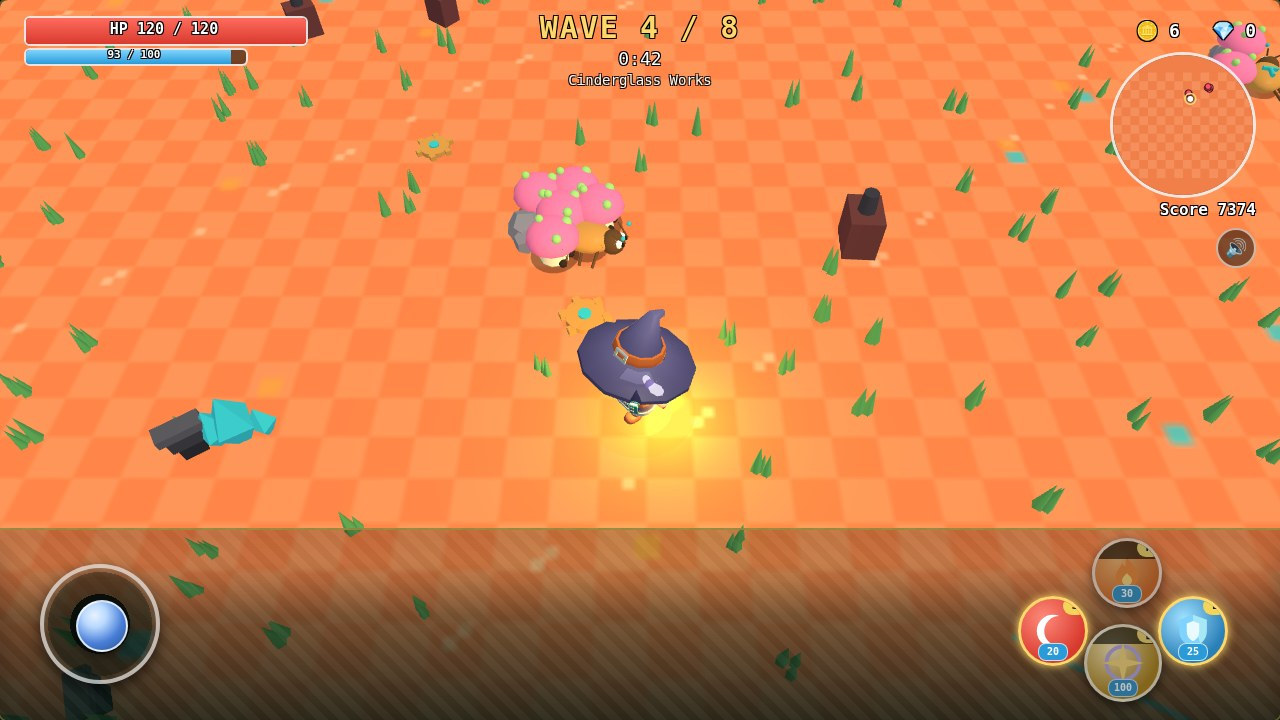
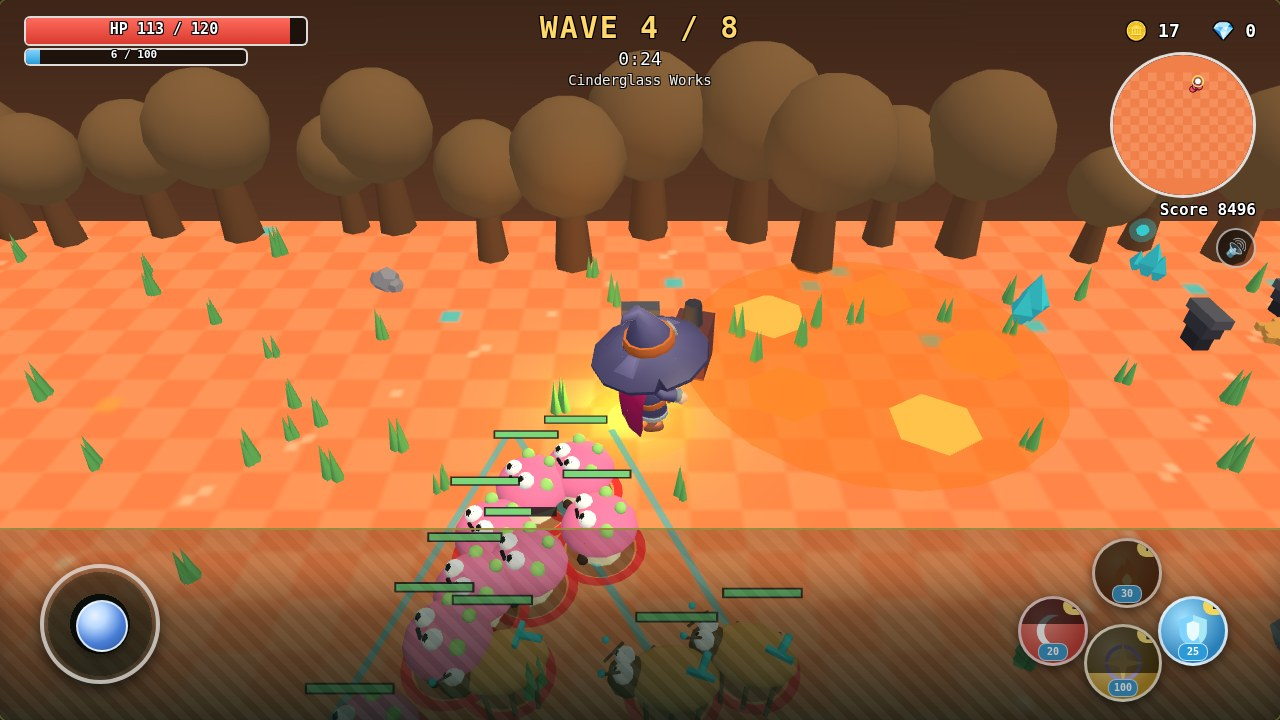
Mosslight v7: musuh kelihatan + Neri jelas

diff --git a/game/src/world.js b/game/src/world.js
@@ -47,7 +47,33 @@ export function createWorld(canvas) {
   let chestMeshes = [];
   let statueMeshes = [];
 
-  // ---- ground baking (one canvas texture for the whole open field) ----
+  // v7: gradient sky — at the 38 deg camera the top of the frame shows
+  // sky when Neri is near the north edge; a flat colour read as an empty
+  // brown band (Cinder), a vertical gradient reads as sky instead.
+  let skyTex = null;
+  function shade(hex, f) {
+    const n = parseInt(hex.slice(1), 16);
+    const r = Math.min(255, Math.round(((n >> 16) & 255) * f));
+    const g = Math.min(255, Math.round(((n >> 8) & 255) * f));
+    const b = Math.min(255, Math.round((n & 255) * f));
+    return `rgb(${r},${g},${b})`;
+  }
+  function setSky() {
+    const pal = AREAS[area];
+    const cv = document.createElement('canvas');
+    cv.width = 4; cv.height = 256;
+    const ctx = cv.getContext('2d');
+    const grad = ctx.createLinearGradient(0, 0, 0, 256);
+    grad.addColorStop(0, shade(pal.sky, 0.5));
+    grad.addColorStop(0.62, pal.sky);
+    grad.addColorStop(1, shade(pal.sky, 1.5));
+    ctx.fillStyle = grad;
+    ctx.fillRect(0, 0, 4, 256);
+    if (skyTex) skyTex.dispose();
+    skyTex = new THREE.CanvasTexture(cv);
+    skyTex.colorSpace = THREE.SRGBColorSpace;
+    scene.background = skyTex;
+  }
   function bakeFloor() {
     const pal = AREAS[area];
     const cv = document.createElement('canvas');
@@ -183,7 +209,10 @@ export function createWorld(canvas) {
       else if (t < FW + FH) { x = FW - 0.6 - jd; z = t - FW + jt; }
       else if (t < FW * 2 + FH) { x = FW - (t - FW - FH) + jt; z = FH - 0.6 - jd; }
       else { x = 0.6 + jd; z = FH - (t - FW * 2 - FH) + jt; }
-      const s = 0.8 + tileHash(i * 3, area) * 1.2;
+      // v7: the north row (the far horizon the 38 deg camera looks at) is
+      // 2.2x taller, so the top of the frame shows a forest silhouette
+      // under the gradient sky instead of a flat empty band.
+      const s = (0.8 + tileHash(i * 3, area) * 1.2) * (t < FW ? 2.2 : 1);
       m4.compose(pv.set(x, 0.45 * s, z), q, sv.set(s, s, s));
       trunks.setMatrixAt(i, m4);
       m4.compose(pv.set(x, 1.25 * s, z), q, sv.set(s, s, s));
@@ -213,6 +242,10 @@ export function createWorld(canvas) {
 
   // ---- entity mesh pools ----
   const enemyMeshes = new Map(); // id -> {group, parts, type}
+  const hpBars = new Map(); // enemy id -> {group, fill, fillW}; v7: small HP
+  // bar above every enemy, billboarded to the camera, so an enemy is
+  // readable at a glance even when its body blends with the decor.
+  let bossHpBar = null;
   const lootMeshes = new Map(); // id -> {group, parts, kind}
   const pickupMeshes = new Map(); // id -> {group, parts, kind}
   const projPool = [];
@@ -373,6 +406,37 @@ export function createWorld(canvas) {
     d.tex.needsUpdate = true;
   }
 
+  // v7: enemy HP bar — dark backing + fill that shrinks from the right.
+  // The group is billboarded in sync() (quaternion copied from the camera),
+  // so its local +x is screen-right and the fill stays left-anchored.
+  function makeHpBar(w) {
+    const g = new THREE.Group();
+    const bg = new THREE.Mesh(
+      new THREE.PlaneGeometry(w, 0.15),
+      new THREE.MeshBasicMaterial({ color: 0x1a1a1a, transparent: true, opacity: 0.85, depthTest: false }),
+    );
+    bg.renderOrder = 5;
+    const fillW = w - 0.06;
+    const fill = new THREE.Mesh(
+      new THREE.PlaneGeometry(fillW, 0.1),
+      new THREE.MeshBasicMaterial({ color: 0x7fe07f, transparent: true, opacity: 0.95, depthTest: false }),
+    );
+    fill.renderOrder = 6;
+    fill.position.z = 0.001;
+    g.add(bg, fill);
+    g.visible = false;
+    scene.add(g);
+    return { group: g, fill, fillW };
+  }
+
+  function updateHpBar(hb, frac) {
+    const f = Math.max(0, Math.min(1, frac));
+    hb.fill.scale.x = Math.max(0.001, f);
+    hb.fill.position.x = -(1 - f) * hb.fillW / 2;
+    hb.fill.material.color.setHex(f > 0.5 ? 0x7fe07f : f > 0.25 ? 0xffc94d : 0xff4f4f);
+    hb.group.visible = true;
+  }
+
   function getTelegraph(color, radius) {
     let t = telegraphPool.find((e) => !e.inUse);
     if (!t) {
@@ -394,7 +458,7 @@ export function createWorld(canvas) {
     bakeFloor();
     buildProps();
     buildChestsAndStatues();
-    scene.background = new THREE.Color(AREAS[0].sky);
+    setSky();
   }
 
   function setArea(a) {
@@ -402,7 +466,7 @@ export function createWorld(canvas) {
     area = a;
     bakeFloor();
     buildProps();
-    scene.background = new THREE.Color(AREAS[a].sky);
+    setSky();
   }
 
   function pxPerUnit() {
@@ -480,9 +544,19 @@ export function createWorld(canvas) {
       } else {
         em.group.traverse((o) => { if (o.isMesh && o.material.emissive) o.material.emissive.setHex(0x000000); });
       }
+      // v7 HP bar above the head, billboarded to the camera.
+      let hb = hpBars.get(e.id);
+      if (!hb) { hb = makeHpBar(1.15); hpBars.set(e.id, hb); }
+      hb.group.position.set(toX(e.x), 1.95, toZ(e.y));
+      hb.group.quaternion.copy(camera.quaternion);
+      updateHpBar(hb, e.hp / e.maxHp);
     }
     for (const [id, em] of enemyMeshes) {
-      if (!seenEnemies.has(id)) { scene.remove(em.group); enemyMeshes.delete(id); }
+      if (!seenEnemies.has(id)) {
+        scene.remove(em.group); enemyMeshes.delete(id);
+        const hb = hpBars.get(id);
+        if (hb) { scene.remove(hb.group); hpBars.delete(id); }
+      }
     }
 
     if (sim.boss) {
@@ -494,6 +568,10 @@ export function createWorld(canvas) {
       bossMesh.group.rotation.z = b.telegraphing ? Math.sin(sim.time * 20) * 0.04 : 0;
       bossMesh.group.visible = true;
       bossMesh.parts.clapper.position.y = 0.25 + Math.sin(sim.time * 6) * 0.08;
+      if (!bossHpBar) bossHpBar = makeHpBar(2.8);
+      bossHpBar.group.position.set(toX(b.x), 5.05, toZ(b.y));
+      bossHpBar.group.quaternion.copy(camera.quaternion);
+      updateHpBar(bossHpBar, b.hp / b.maxHp);
       if (b.flashT > 0) {
         bossMesh.parts.body.material.emissive.setHex(0x888888);
       } else {
@@ -501,6 +579,7 @@ export function createWorld(canvas) {
       }
     } else if (bossMesh) {
       bossMesh.group.visible = false;
+      if (bossHpBar) bossHpBar.group.visible = false;
     }
 
     const seenLoot = new Set();

diff --git a/game/src/models.js b/game/src/models.js
@@ -27,6 +27,19 @@ export function blobShadow(radius, opacity = 0.32) {
   return m;
 }
 
+// v7: red ring on the ground under an enemy — the one marker that makes
+// an enemy readable at a glance from above, even when its body blends
+// with the decor. Decor (flowers, mushrooms, grass) never has a ring.
+export function enemyRing(r) {
+  const m = new THREE.Mesh(
+    new THREE.RingGeometry(r * 0.8, r, 24),
+    new THREE.MeshBasicMaterial({ color: 0xff2a2a, transparent: true, opacity: 0.85, side: THREE.DoubleSide, depthWrite: false }),
+  );
+  m.rotation.x = -Math.PI / 2;
+  m.position.y = 0.04;
+  return m;
+}
+
 // ---- Neri's lantern: a hand lantern that hangs from the GLB hand slot.
 export function makeGlowTexture() {
   const cv = document.createElement('canvas');
@@ -97,6 +110,9 @@ export function buildMoth() {
 }
 
 // ---- Puffcap: pink mushroom with mint spots ----
+// v7: the face moved from the stem front (hidden under the cap overhang
+// from above) to the TOP of the cap — eyes + smile sit on the cap's
+// upper-front slope, so they read from the 38 deg camera.
 export function buildPuffcap() {
   const g = new THREE.Group();
   const stem = mesh(new THREE.CylinderGeometry(0.24, 0.32, 0.55, 10), lam(0xfff3c4), 0, 0.28, 0);
@@ -104,18 +120,22 @@ export function buildPuffcap() {
   const cap = mesh(new THREE.SphereGeometry(0.55, 14, 10, 0, Math.PI * 2, 0, Math.PI / 2), lam(0xff7fb0), 0, 0.5, 0);
   cap.scale.y = 0.75;
   g.add(cap);
-  for (const [x, y, z, r] of [[-0.25, 0.82, 0.25, 0.1], [0.28, 0.78, 0.18, 0.12], [0.05, 0.88, -0.3, 0.09]]) {
+  // Mint spots kept on the BACK of the cap so they never collide with the face.
+  for (const [x, y, z, r] of [[-0.3, 0.85, -0.15, 0.1], [0.32, 0.75, -0.05, 0.12], [0.05, 0.88, -0.3, 0.09]]) {
     g.add(mesh(new THREE.SphereGeometry(r, 8, 6), lam(0xa5e37a), x, y, z));
   }
   g.add(mesh(new THREE.SphereGeometry(0.09, 8, 6), lam(0x3a2a20), -0.16, 0.06, 0.28));
   g.add(mesh(new THREE.SphereGeometry(0.09, 8, 6), lam(0x3a2a20), 0.16, 0.06, 0.28));
   const eyeW = lam(0xffffff), pup = lam(0x1a1a1a);
   for (const sx of [-1, 1]) {
-    g.add(mesh(new THREE.SphereGeometry(0.12, 10, 8), eyeW, sx * 0.14, 0.44, 0.24));
-    g.add(mesh(new THREE.SphereGeometry(0.06, 8, 6), pup, sx * 0.14, 0.44, 0.34));
+    g.add(mesh(new THREE.SphereGeometry(0.13, 10, 8), eyeW, sx * 0.16, 0.87, 0.18));
+    g.add(mesh(new THREE.SphereGeometry(0.065, 8, 6), pup, sx * 0.16, 0.93, 0.23));
   }
-  g.add(mesh(new THREE.BoxGeometry(0.16, 0.035, 0.04), pup, 0, 0.3, 0.3));
+  const smile = mesh(new THREE.BoxGeometry(0.16, 0.035, 0.04), pup, 0, 0.85, 0.3);
+  smile.rotation.x = -0.55;
+  g.add(smile);
   g.add(blobShadow(0.5));
+  g.add(enemyRing(0.66));
   return { group: g, parts: { cap, stem } };
 }
 
@@ -144,15 +164,18 @@ export function buildTinket() {
     }
   }
   const eyeW = lam(0xffffff), pup = lam(0x1a1a1a);
+  // v7: eyes moved to the TOP of the head (were on the front face, hidden
+  // from above) and made bigger — they read from the 38 deg camera.
   for (const sx of [-1, 1]) {
-    g.add(mesh(new THREE.SphereGeometry(0.1, 10, 8), eyeW, sx * 0.1, 0.38, 0.7));
-    g.add(mesh(new THREE.SphereGeometry(0.05, 8, 6), pup, sx * 0.1, 0.38, 0.79));
+    g.add(mesh(new THREE.SphereGeometry(0.13, 10, 8), eyeW, sx * 0.11, 0.53, 0.6));
+    g.add(mesh(new THREE.SphereGeometry(0.065, 8, 6), pup, sx * 0.11, 0.57, 0.66));
     const an = mesh(new THREE.CylinderGeometry(0.02, 0.02, 0.36, 5), lam(0x6a4a2a), sx * 0.14, 0.56, 0.74);
     an.rotation.x = -0.7; an.rotation.z = -sx * 0.3;
     g.add(an);
     g.add(mesh(new THREE.SphereGeometry(0.05, 6, 5), lam(0x35c9d0), sx * 0.22, 0.68, 0.84));
   }
   g.add(blobShadow(0.45));
+  g.add(enemyRing(0.62));
   return { group: g, parts: { body, key } };
 }
 
@@ -176,15 +199,19 @@ export function buildBrambler() {
     g.add(thorn);
   }
   const eyeW = lam(0xffffff), pup = lam(0x1a1a1a);
+  // v7: the angry face moved to the TOP of the stump (was on the front
+  // face, hidden from above) — eyes on the top disc's front edge, brows
+  // just under the rim, mouth lying on the disc.
   for (const sx of [-1, 1]) {
-    g.add(mesh(new THREE.SphereGeometry(0.11, 10, 8), eyeW, sx * 0.15, 0.62, 0.4));
-    g.add(mesh(new THREE.SphereGeometry(0.055, 8, 6), pup, sx * 0.15, 0.62, 0.5));
-    const brow = mesh(new THREE.BoxGeometry(0.2, 0.045, 0.04), pup, sx * 0.15, 0.78, 0.42);
+    g.add(mesh(new THREE.SphereGeometry(0.11, 10, 8), eyeW, sx * 0.16, 0.95, 0.3));
+    g.add(mesh(new THREE.SphereGeometry(0.055, 8, 6), pup, sx * 0.16, 0.98, 0.34));
+    const brow = mesh(new THREE.BoxGeometry(0.2, 0.045, 0.04), pup, sx * 0.15, 0.8, 0.44);
     brow.rotation.z = -sx * 0.45;
     g.add(brow);
   }
-  g.add(mesh(new THREE.BoxGeometry(0.14, 0.035, 0.04), pup, 0, 0.46, 0.44));
+  g.add(mesh(new THREE.BoxGeometry(0.14, 0.035, 0.04), pup, 0, 0.97, 0.36));
   g.add(blobShadow(0.55));
+  g.add(enemyRing(0.66));
   return { group: g, parts: { stump, top } };
 }
 
@@ -221,6 +248,9 @@ export function buildBoss() {
   glow.rotation.x = -Math.PI / 2;
   glow.position.y = 0.03;
   g.add(glow);
+  const ring = enemyRing(2.3);
+  ring.position.y = 0.06; // above the glow disc, no z-fight
+  g.add(ring);
   return { group: g, parts: { body, dome, rim, clapper, glow } };
 }
 

diff --git a/game/src/game.js b/game/src/game.js
@@ -1425,10 +1425,13 @@ export class Game {
     if (shot === 'start') return this.state === 'title';
     if (this.state !== 'playing') return false;
     if (shot === 'combat') {
-      return this.wave >= 1 && this.wave <= 3 && this.enemies.length >= 8 && this.loot.length >= 1;
+      // v7: mid-wave only (waveT counts down from 50, so <= 25 means at
+      // least 25 s elapsed) — the shot must show a crowded field, not the
+      // first few enemies of a fresh wave.
+      return this.wave >= 1 && this.wave <= 3 && this.waveT <= 25 && this.enemies.length >= 8 && this.loot.length >= 1;
     }
     if (shot === 'cinder') {
-      return this.wave >= 4 && this.wave <= 6 && this.enemies.length >= 8;
+      return this.wave >= 4 && this.wave <= 6 && this.waveT <= 25 && this.enemies.length >= 8;
     }
     if (shot === 'boss') {
       if (this.wave !== 8 || !this.boss) return false;

diff --git a/game/src/config.js b/game/src/config.js
@@ -213,7 +213,11 @@ export const AREAS = [
 // ---- 3D camera / render ----
 export const CAM = {
   fov: 50, // vertical degrees
-  tiltDeg: 55, // camera looks down 55 deg below horizontal
+  tiltDeg: 38, // camera looks down 38 deg below horizontal (v7: was 55 —
+  // at 55 deg Neri read as "just a purple hat" — her face + robe were
+  // hidden under the hat brim; at 38 they show. Sky band at the top of
+  // the frame when Neri is near the north edge is the area sky colour,
+  // not void — the ground still fills every frame below the tree line.
   dist: 16, // world units from the target point
   targetHeight: 1.4, // world units above the floor (Neri's chest)
   neriHeight: 3.4, // world units tall (renders ~130px at 1280x720;
